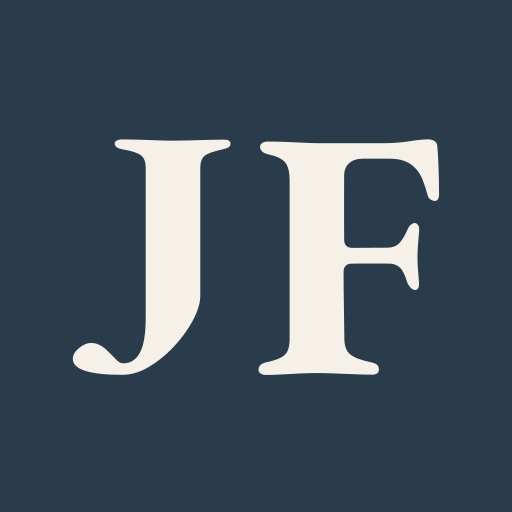
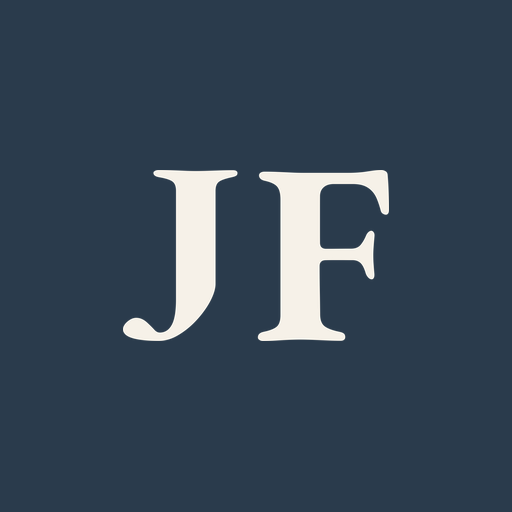
C27: icono adaptativo en zona segura, foto retrato en app, texto Respira con divulgacion progresiva, reserva de Cal embebida en la app con react-native-webview, bump runtimeVersion 1.0.2

Changed region(s): [[0.5, 0.25, 0.875, 0.75], [0.125, 0.25, 0.4688, 0.75]]

diff --git a/app/src/app/reservar.jsx b/app/src/app/reservar.jsx
@@ -1,0 +1,176 @@
+import { useState, useMemo } from 'react';
+import { View, Text, Pressable, ActivityIndicator, StyleSheet } from 'react-native';
+import { useSafeAreaInsets } from 'react-native-safe-area-context';
+import { useLocalSearchParams, useRouter } from 'expo-router';
+import { Feather } from '@expo/vector-icons';
+import { WebView } from 'react-native-webview';
+import { CAL_EVENTS, calInlineEmbedHtml } from '@contenido/cal';
+import { SESIONES } from '@contenido/sesiones';
+import { COLORS, FONTS } from '../theme/tokens';
+import { abrirAgendaExterno } from '../lib/abrir';
+
+/**
+ * Pantalla de reserva embebida (C27). Cal.com vive DENTRO de la app dentro de un
+ * react-native-webview: no se abre ningun navegador externo con barra ni X. El
+ * widget usa la misma configuracion que el sitio (CAL_EMBED_CONFIG en cal.js),
+ * asi la reserva se ve igual en todas las plataformas. El slug del evento llega
+ * como parametro desde abrirAgenda. Si el embed falla, se ofrece una via externa
+ * de respaldo para no dejar nunca al usuario sin forma de reservar.
+ */
+function tituloDeSlug(slug) {
+  const clave = Object.keys(CAL_EVENTS).find((k) => CAL_EVENTS[k] === slug);
+  const sesion = clave ? SESIONES.find((s) => s.key === clave) : null;
+  return sesion ? sesion.titulo : 'Reserva tu sesión';
+}
+
+export default function Reservar() {
+  const insets = useSafeAreaInsets();
+  const router = useRouter();
+  const { slug } = useLocalSearchParams();
+  const slugStr = Array.isArray(slug) ? slug[0] : slug;
+
+  const [cargando, setCargando] = useState(true);
+  const [error, setError] = useState(false);
+
+  const html = useMemo(() => (slugStr ? calInlineEmbedHtml(slugStr) : ''), [slugStr]);
+  const titulo = useMemo(() => tituloDeSlug(slugStr), [slugStr]);
+
+  return (
+    <View style={styles.pantalla}>
+      <View style={[styles.barra, { paddingTop: insets.top + 8 }]}>
+        <Pressable
+          onPress={() => router.back()}
+          accessibilityRole="button"
+          accessibilityLabel="Volver"
+          hitSlop={8}
+          style={({ pressed }) => [styles.volver, pressed && { opacity: 0.7 }]}
+        >
+          <Feather name="chevron-left" size={22} color={COLORS.onSage} />
+        </Pressable>
+        <View style={{ flex: 1 }}>
+          <Text style={styles.barraTitulo} numberOfLines={1}>
+            Reservar
+          </Text>
+          <Text style={styles.barraSub} numberOfLines={1}>
+            {titulo}
+          </Text>
+        </View>
+      </View>
+
+      <View style={styles.cuerpo}>
+        {!error && slugStr ? (
+          <WebView
+            source={{ html, baseUrl: 'https://cal.com' }}
+            originWhitelist={['*']}
+            javaScriptEnabled
+            domStorageEnabled
+            thirdPartyCookiesEnabled
+            setSupportMultipleWindows={false}
+            scrollEnabled
+            nestedScrollEnabled
+            onLoadEnd={() => setCargando(false)}
+            onError={() => {
+              setError(true);
+              setCargando(false);
+            }}
+            onHttpError={() => {
+              setError(true);
+              setCargando(false);
+            }}
+            style={styles.web}
+          />
+        ) : null}
+
+        {cargando && !error ? (
+          <View style={styles.estado} pointerEvents="none">
+            <ActivityIndicator size="large" color={COLORS.sage} />
+            <Text style={styles.estadoTexto}>Cargando el calendario...</Text>
+          </View>
+        ) : null}
+
+        {error ? (
+          <View style={styles.estado}>
+            <Text style={styles.estadoTitulo}>No pudimos mostrar el calendario aquí</Text>
+            <Text style={styles.estadoTexto}>
+              Abre la agenda y reserva tu hora. Vuelves con un toque.
+            </Text>
+            <Pressable
+              onPress={() => abrirAgendaExterno(slugStr)}
+              accessibilityRole="button"
+              style={({ pressed }) => [styles.botonFallback, pressed && { opacity: 0.85 }]}
+            >
+              <Text style={styles.botonFallbackTexto}>Abrir agenda</Text>
+            </Pressable>
+          </View>
+        ) : null}
+      </View>
+    </View>
+  );
+}
+
+const styles = StyleSheet.create({
+  pantalla: { flex: 1, backgroundColor: COLORS.cream },
+  barra: {
+    flexDirection: 'row',
+    alignItems: 'center',
+    gap: 8,
+    backgroundColor: COLORS.sage,
+    paddingHorizontal: 16,
+    paddingBottom: 12,
+  },
+  volver: {
+    width: 36,
+    height: 36,
+    borderRadius: 18,
+    alignItems: 'center',
+    justifyContent: 'center',
+  },
+  barraTitulo: {
+    fontFamily: FONTS.display,
+    fontSize: 18,
+    color: COLORS.onSage,
+    letterSpacing: 0.2,
+  },
+  barraSub: {
+    fontFamily: FONTS.body,
+    fontSize: 12.5,
+    color: 'rgba(246,241,232,0.78)',
+    marginTop: 1,
+  },
+  cuerpo: { flex: 1, backgroundColor: COLORS.cream },
+  web: { flex: 1, backgroundColor: COLORS.cream },
+  estado: {
+    ...StyleSheet.absoluteFillObject,
+    backgroundColor: COLORS.cream,
+    alignItems: 'center',
+    justifyContent: 'center',
+    paddingHorizontal: 32,
+    gap: 12,
+  },
+  estadoTitulo: {
+    fontFamily: FONTS.display,
+    fontSize: 19,
+    color: COLORS.ink,
+    textAlign: 'center',
+  },
+  estadoTexto: {
+    fontFamily: FONTS.body,
+    fontSize: 15,
+    lineHeight: 22,
+    color: COLORS.inkSoft,
+    textAlign: 'center',
+  },
+  botonFallback: {
+    backgroundColor: COLORS.terracotaDeep,
+    borderRadius: 999,
+    paddingHorizontal: 28,
+    paddingVertical: 13,
+    marginTop: 6,
+  },
+  botonFallbackTexto: {
+    fontFamily: FONTS.bodyBold,
+    fontSize: 15,
+    color: COLORS.onSage,
+    letterSpacing: 0.2,
+  },
+});

diff --git a/src/lib/cal.js b/src/lib/cal.js
@@ -31,3 +31,42 @@ export const CAL_NAMESPACE = 'psicojuan';
 // Helper: link completo (fallback si el embed no carga).
 export const calLinkFor = (slug) => `${CAL_USERNAME}/${slug}`;
 export const calFullUrl = (slug) => `https://cal.com/${CAL_USERNAME}/${slug}`;
+
+// Configuracion visual del widget, identica en web y app: una sola fuente para
+// que el mismo embed se vea igual en todas las plataformas. El sitio la pasa a
+// @calcom/embed-react; la app la inyecta en el HTML del embed dentro del WebView.
+export const CAL_EMBED_CONFIG = { layout: 'month_view', theme: 'light' };
+
+// HTML del embed inline de Cal para contenedores WebView (la app lo renderiza
+// dentro de react-native-webview). En el sitio se usa el componente
+// @calcom/embed-react; aqui se genera EL MISMO widget con el snippet oficial de
+// Cal, leyendo de las mismas constantes (username, namespace y config), para que
+// no se abra ningun navegador externo y la reserva quede contenida en la app.
+//
+// Funcion pura: solo arma una cadena de texto, sin DOM ni APIs de plataforma,
+// para que este archivo siga siendo importable por el sitio y por la app.
+export const calInlineEmbedHtml = (slug) => {
+  const calLink = `${CAL_USERNAME}/${slug}`;
+  const cfg = JSON.stringify(CAL_EMBED_CONFIG);
+  const ns = CAL_NAMESPACE;
+  return `<!doctype html>
+<html lang="es">
+<head>
+<meta charset="utf-8" />
+<meta name="viewport" content="width=device-width, initial-scale=1, maximum-scale=1, viewport-fit=cover" />
+<style>
+  html, body { margin: 0; padding: 0; height: 100%; background: #F6F1E8; }
+  #cal-inline { width: 100%; height: 100%; overflow: auto; -webkit-overflow-scrolling: touch; }
+</style>
+</head>
+<body>
+<div id="cal-inline"></div>
+<script>
+(function (C, A, L) { let p = function (a, ar) { a.q.push(ar); }; let d = C.document; C.Cal = C.Cal || function () { let cal = C.Cal; let ar = arguments; if (!cal.loaded) { cal.ns = {}; cal.q = cal.q || []; d.head.appendChild(d.createElement("script")).src = A; cal.loaded = true; } if (ar[0] === L) { const api = function () { p(api, arguments); }; const namespace = ar[1]; api.q = api.q || []; if (typeof namespace === "string") { cal.ns[namespace] = cal.ns[namespace] || api; p(cal.ns[namespace], ar); p(cal, ["initNamespace", namespace]); } else p(cal, ar); return; } p(cal, ar); }; })(window, "https://app.cal.com/embed/embed.js", "init");
+Cal("init", "${ns}", { origin: "https://cal.com" });
+Cal.ns["${ns}"]("inline", { elementOrSelector: "#cal-inline", calLink: "${calLink}", config: ${cfg} });
+Cal.ns["${ns}"]("ui", ${cfg});
+</script>
+</body>
+</html>`;
+};

diff --git a/src/lib/respiraNucleo.js b/src/lib/respiraNucleo.js
@@ -55,8 +55,15 @@ export const RESPIRA_RITMO = {
  * tecnica de respiracion a frecuencia de resonancia (cercana a 0,1 Hz, ~6 rpm),
  * que sincroniza respiracion y ritmo cardiaco (coherencia cardiaca) y eleva la
  * variabilidad de la frecuencia cardiaca. Hay evidencia de ensayos en estres,
- * ansiedad y cognicion. El verbo "puede ayudar" mantiene la afirmacion honesta;
- * el encuadre de seguridad deja claro que es apoyo, no tratamiento.
+ * ansiedad y cognicion.
+ *
+ * Divulgacion progresiva (C27): el texto de la funcion es minimo y solo dice
+ * que hacer (sigue la figura, inhala al expandirse, exhala al recogerse). El
+ * detalle clinico (nombre de la tecnica, mecanismo, beneficios y duracion
+ * sugerida) se difiere a la pregunta frecuente "Que es Respira conmigo" en
+ * faqData.js, para bajar la carga cognitiva en el momento de uso. El verbo
+ * "puede ayudar" mantiene la afirmacion honesta; la nota de seguridad deja
+ * claro que es apoyo, no tratamiento.
  *
  * CRITICO: cero em-dashes y cero en-dashes.
  */
@@ -64,9 +71,9 @@ export const RESPIRA_TEXTO = {
   eyebrow: 'Una pausa para ti',
   titulo: 'Respira conmigo',
   intro:
-    'Este ejercicio llamado "respiración coherente" es una técnica que sincroniza la respiración con el ritmo cardíaco para equilibrar el sistema nervioso. La figura se expande cuando debes inhalar y se recoge cuando debes exhalar, a un ritmo lento, cercano a 6 respiraciones por minuto. Puede ayudar con autoregulación emocional, estrés, ansiedad o concentración.',
+    'Sigue la figura con tu respiración: inhala mientras se expande y exhala mientras se recoge, a un ritmo lento y suave. Déjate llevar por unos minutos.',
   seguridad:
-    'Es una herramienta de relajación para momentos puntuales, no es un tratamiento ni reemplaza la psicoterapia o un proceso de sanación. Si sientes mareo o incomodidad, detente y vuelve a tu ritmo natural.',
+    'Es un apoyo para relajarte, no un tratamiento. Si sientes mareo o incomodidad, detente y vuelve a tu ritmo natural.',
   puenteTexto: '¿Sientes que necesitas más que una pausa? Podemos trabajarlo juntos en sesión.',
   puenteCta: 'Agendar una sesión',
 };

diff --git a/app/src/lib/abrir.js b/app/src/lib/abrir.js
@@ -1,8 +1,16 @@
 import * as WebBrowser from 'expo-web-browser';
 import { Linking } from 'react-native';
+import { router } from 'expo-router';
 import { calFullUrl } from '@contenido/cal';
 
-// Abre Cal.com en un navegador dentro de la app: mantiene el contexto y el
-// regreso es de un toque. El canal de reserva es el siempre disponible.
-export const abrirAgenda = (slug) => WebBrowser.openBrowserAsync(calFullUrl(slug));
+// Reserva embebida: en vez de abrir Cal.com en un navegador externo (barra y X),
+// navega a la pantalla /reservar, que muestra el MISMO widget de Cal contenido
+// dentro de la app (react-native-webview). El slug viaja como parametro.
+export const abrirAgenda = (slug) =>
+  router.push({ pathname: '/reservar', params: { slug } });
+
+// Fallback explicito: solo lo usa /reservar si el embed no carga, para no dejar
+// nunca al usuario sin via de reserva. Abre Cal.com en el navegador del sistema.
+export const abrirAgendaExterno = (slug) => WebBrowser.openBrowserAsync(calFullUrl(slug));
+
 export const abrirUrl = (url) => Linking.openURL(url);

diff --git a/app/src/app/(tabs)/index.jsx b/app/src/app/(tabs)/index.jsx
@@ -110,13 +110,18 @@ const styles = StyleSheet.create({
   pantalla: { flex: 1, backgroundColor: COLORS.cream },
   contenido: { paddingHorizontal: 22, paddingTop: 22, paddingBottom: 40 },
   foto: {
-    width: 104,
-    height: 104,
-    borderRadius: 52,
+    width: 220,
+    height: 275,
+    borderRadius: 20,
     alignSelf: 'center',
-    borderWidth: 3,
+    borderWidth: 4,
     borderColor: COLORS.offwhite,
     backgroundColor: COLORS.offwhite,
+    shadowColor: COLORS.ink,
+    shadowOffset: { width: 0, height: 6 },
+    shadowOpacity: 0.12,
+    shadowRadius: 14,
+    elevation: 4,
   },
   h1: {
     fontFamily: FONTS.display,

diff --git a/app/src/components/EncabezadoApp.jsx b/app/src/components/EncabezadoApp.jsx
@@ -23,14 +23,14 @@ import { abrirAgenda } from '../lib/abrir';
  * Garamond (igual que el wordmark del sitio) y un boton "Agendar" en
  * terracota-deep (#A4583B, el mismo tono AA del CTA primario del sitio). El
  * boton despliega una hoja inferior con las cuatro sesiones; cada una abre la
- * agenda de Cal.com en el navegador dentro de la app.
+ * agenda de Cal.com embebida en la pantalla /reservar (sin navegador externo).
  *
  * Coherencia: las sesiones, claves y enlaces vienen del mismo nucleo compartido
  * que el desplegable "Agendar" del header web (SESIONES + CAL_EVENTS). La
  * interfaz es nativa; los datos son los mismos.
  *
- * Cero dependencias nativas nuevas: la hoja usa Modal y Animated del nucleo de
- * React Native, asi que el cambio viaja por OTA sin recompilar.
+ * La hoja en si usa Modal y Animated del nucleo de React Native; la reserva se
+ * muestra embebida en /reservar (react-native-webview).
  */
 export default function EncabezadoApp() {
   const insets = useSafeAreaInsets();

diff --git a/src/components/sections/Agendar.jsx b/src/components/sections/Agendar.jsx
@@ -1,6 +1,6 @@
 import { useState, useEffect, useRef, lazy, Suspense } from 'react';
 import { motion, AnimatePresence, useInView, useReducedMotion } from 'framer-motion';
-import { CAL_USERNAME, CAL_EVENTS, CAL_NAMESPACE } from '../../lib/cal';
+import { CAL_USERNAME, CAL_EVENTS, CAL_NAMESPACE, CAL_EMBED_CONFIG } from '../../lib/cal';
 import { PRECIOS } from '../../lib/precios';
 import { useUI } from '../../lib/uiContext';
 
@@ -306,7 +306,7 @@ export default function Agendar() {
                   ? {
                       'data-cal-link': calLink,
                       'data-cal-namespace': CAL_NAMESPACE,
-                      'data-cal-config': '{"layout":"month_view","theme":"light"}',
+                      'data-cal-config': JSON.stringify(CAL_EMBED_CONFIG),
                     }
                   : {})}
                 onClick={() => {
@@ -342,7 +342,7 @@ export default function Agendar() {
                   height: '760px',
                   overflow: 'scroll',
                 }}
-                config={{ layout: 'month_view', theme: 'light' }}
+                config={CAL_EMBED_CONFIG}
               />
             </Suspense>
           ) : (

diff --git a/index.html b/index.html
@@ -243,7 +243,7 @@
           "name": "¿Qué es \"Respira conmigo\"?",
           "acceptedAnswer": {
             "@type": "Answer",
-            "text": "Es una herramienta gratuita de este sitio, en psicologojuanfernandez.cl/respira: una figura que se expande y se recoge para guiar tu inhalación y tu exhalación a un ritmo lento, cercano a 6 respiraciones por minuto. La inicias y la pausas cuando quieras, y puedes usarla el tiempo que te acomode (entre 3 y 5 minutos funciona bien para la mayoría). Es un apoyo para la relajación: no es un tratamiento ni reemplaza un proceso de psicoterapia. Si sientes mareo o incomodidad, detente y vuelve a tu ritmo natural."
+            "text": "Es una herramienta gratuita de este sitio, en psicologojuanfernandez.cl/respira: una figura que se expande y se recoge para guiar tu inhalación y tu exhalación a un ritmo lento, cercano a 6 respiraciones por minuto. Esta técnica, conocida como respiración coherente, sincroniza la respiración con el ritmo cardíaco y puede ayudar con la autoregulación emocional, el estrés, la ansiedad o la concentración. La inicias y la pausas cuando quieras, y puedes usarla el tiempo que te acomode (entre 3 y 5 minutos funciona bien para la mayoría). Es un apoyo para la relajación: no es un tratamiento ni reemplaza un proceso de psicoterapia. Si sientes mareo o incomodidad, detente y vuelve a tu ritmo natural."
           }
         }
       ]

diff --git a/src/lib/faqData.js b/src/lib/faqData.js
@@ -71,7 +71,7 @@ export const FAQ_ITEMS = [
     q: '¿Qué es "Respira conmigo"?',
     // El campo `link` solo lo renderiza el sitio web; la app nativa muestra q y a.
     // Por eso la respuesta nombra la URL: el texto queda autocontenido en ambas superficies.
-    a: 'Es una herramienta gratuita de este sitio, en psicologojuanfernandez.cl/respira: una figura que se expande y se recoge para guiar tu inhalación y tu exhalación a un ritmo lento, cercano a 6 respiraciones por minuto. La inicias y la pausas cuando quieras, y puedes usarla el tiempo que te acomode (entre 3 y 5 minutos funciona bien para la mayoría). Es un apoyo para la relajación: no es un tratamiento ni reemplaza un proceso de psicoterapia. Si sientes mareo o incomodidad, detente y vuelve a tu ritmo natural.',
+    a: 'Es una herramienta gratuita de este sitio, en psicologojuanfernandez.cl/respira: una figura que se expande y se recoge para guiar tu inhalación y tu exhalación a un ritmo lento, cercano a 6 respiraciones por minuto. Esta técnica, conocida como respiración coherente, sincroniza la respiración con el ritmo cardíaco y puede ayudar con la autoregulación emocional, el estrés, la ansiedad o la concentración. La inicias y la pausas cuando quieras, y puedes usarla el tiempo que te acomode (entre 3 y 5 minutos funciona bien para la mayoría). Es un apoyo para la relajación: no es un tratamiento ni reemplaza un proceso de psicoterapia. Si sientes mareo o incomodidad, detente y vuelve a tu ritmo natural.',
     link: { label: 'Abrir Respira conmigo →', href: '/respira' },
   },
 ];

diff --git a/app/src/app/_layout.jsx b/app/src/app/_layout.jsx
@@ -39,6 +39,7 @@ export default function RootLayout() {
         }}
       >
         <Stack.Screen name="(tabs)" />
+        <Stack.Screen name="reservar" options={{ animation: 'slide_from_bottom' }} />
       </Stack>
       {!splashListo && <SplashAnimado onDone={() => setSplashListo(true)} />}
     </SafeAreaProvider>

diff --git a/app/PUBLICAR-GOOGLE-PLAY.md b/app/PUBLICAR-GOOGLE-PLAY.md
@@ -5,14 +5,17 @@ acción, dónde se hace y el resultado que debes ver. Sigue el orden.
 
 ## Contexto y supuestos
 
-- La app NO cambia su capa nativa en este ciclo (no hay módulos nativos nuevos,
-  ni permisos, ni bump de SDK). La foto del inicio viaja como recurso empaquetado
-  por OTA. Por eso `runtimeVersion` sigue en `"1.0.1"` en `app/app.json`. No lo
-  cambies.
+- En este ciclo (C27) SÍ cambia la capa nativa por dos motivos: (1) el ícono
+  empaquetado se reemplazó (nuevo ícono adaptativo en `app/assets/icon-adaptive.png`
+  y color de fondo Ink en `app/app.json`), y (2) se agregó la dependencia nativa
+  `react-native-webview` para mostrar la reserva de Cal.com embebida dentro de la
+  app. Ambos viajan dentro del binario, no por OTA, así que necesitas un AAB
+  nuevo. Por eso `runtimeVersion` ya subió a `"1.0.2"` en `app/app.json`. No lo
+  bajes.
 - `versionCode` de Android lo sube EAS solo, porque el perfil `production` de
   `app/eas.json` tiene `autoIncrement: true`. No tienes que tocarlo a mano.
-- La versión visible (`version` en `app/app.json`) puede quedarse en `"1.0.0"`
-  para esta primera subida.
+- La versión visible (`version` en `app/app.json`) ya subió a `"1.0.1"` para
+  acompañar este cambio.
 - Tu cuenta de desarrollador es personal y se creó después del 13 de noviembre
   de 2023. Por eso Google exige una fase de prueba cerrada: al menos 12 testers
   aceptados y 14 días seguidos de prueba antes de poder publicar en producción.
@@ -136,8 +139,8 @@ Dónde: Play Console, "Pruebas", "Prueba cerrada".
   pantallas, estilos) se envían sin recompilar con
   `npx eas-cli update --channel production`.
 - El `runtimeVersion` del update debe coincidir con el del build instalado
-  (`"1.0.1"`). Si algún ciclo futuro toca la capa nativa (módulo nativo nuevo,
-  permiso, bump de SDK, ícono empaquetado), ahí sí subes `runtimeVersion`,
+  (`"1.0.2"`). Si algún ciclo futuro vuelve a tocar la capa nativa (módulo nativo
+  nuevo, permiso, bump de SDK, ícono empaquetado), ahí sí subes `runtimeVersion`,
   recompilas el AAB y vuelves a subir a Play.
 
 ## Opcional: enlace de la app con el dominio (assetlinks.json)